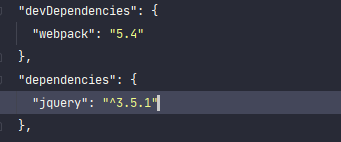
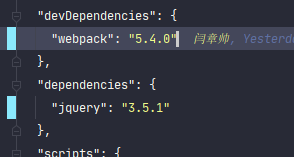
'd'

diff --git a/code/webpack.config.js b/code/webpack.config.js
@@ -33,6 +33,18 @@ const modules = {
 
   //devtool:false, //'eval'
 
+  module:{
+    rules:[
+      {
+        test:/\.js$/,
+        include:path.join(__dirname,'src'),
+        loader: "babel-loader",
+
+      }
+    ]
+  },
+
+
   optimization: {
     minimize: false,
     minimizer: [
@@ -92,26 +104,6 @@ const modules = {
     ]
   },
 
-  // module:{
-  //   rules:[
-  //     {
-  //       test:/\.css$/,
-  //       include:path.join(__dirname,'src'),
-  //       exclude:path.join(__dirname,'node_modules'),
-  //       ////  字符串形式
-  //       // use:'css-loader',
-  //       //  数组形式，可以设置多个loader
-  //       // use:[
-  //       //   {
-  //       //     loader:'css-loader',
-  //       //     options:{
-  //       //
-  //       //     }
-  //       //   }
-  //       // ]
-  //     }
-  //   ]
-  // }
 
 
   plugins: [
@@ -157,6 +149,7 @@ const modules = {
 
       //  每次打包之后删除匹配的文件
     }),
+
 
     new webpack.DefinePlugin({ "global_a": JSON.stringify("我是一个打包配置的全局变量") }),
   ],

diff --git a/code/src/index.js b/code/src/index.js
@@ -11,7 +11,9 @@
 //   }
 // }
 // a()
+import '@babel/polyfill'
 const lambdaFunc = ()=>{
+  //  es6语法
   const a = '我是箭头函数'
   console.log(a)
 
@@ -19,7 +21,13 @@ const lambdaFunc = ()=>{
   for (const item of arr) {
     console.log(item)
   }
+
+
+  //  es6-API
+  arr.map(s=>console.log(s))
+  console.log(arr.includes(1))
 }
 lambdaFunc()
+
 
 

diff --git a/blogs/从零学脚手架(一)---环境搭建.md b/blogs/从零学脚手架(一)---环境搭建.md
@@ -62,17 +62,19 @@ package.json文件创建完成之后Node其实会将当前package文件所在的
 
 添加依赖包的命令为 <font style="color:#f03d3d">yarn add  [-D]  pack-name</font>/<font style="color:#f03d3d">npm install [-D]  pack-name</font> 其中 -D 表示将包添加到开发环境依赖，默认则添加到生成环境依赖，例如我们添加JQuery和webpack。 其中JQuery为生成环境依赖，而webpack则是开发环境依赖
 
-> yarn  add -D  webpack@5.4
+> yarn add -D  webpack@5.4.0
 >
-> yarn add jquery
+> yarn add jquery@3.5.1
 
 <img src=".//images//image-01-04.png" width="400">
+
+
 
 > :whale2::whale2:
 >
 > 1. webpack@5.4包表示添加的是5.4版本的webpack。webpack截至到目前最新版本为5.10.1 但是新版本某些功能具有一定的问题。
->
-> 2. jquery包有的会安装在<font style="color:#f03d3d">peerDependencies</font>依赖中，这个依赖提供了一个通用包引用的概念，具体请参考[一文搞懂peerDependencies](https://segmentfault.com/a/1190000022435060)
+>2. jquery包有的会安装在<font style="color:#f03d3d">peerDependencies</font>依赖中，这个依赖提供了一个通用包引用的概念，具体请参考[一文搞懂peerDependencies(https://segmentfault.com/a/1190000022435060)
+>    1. 包版本有时具有^、~、*等符号，这些都是匹配最新的版本，具体请参考[NPM依赖包版本号~和^和*的区别](https://blog.csdn.net/p358278505/article/details/78247700)
 
 可以看到添加成功会在<font style="color:#f03d3d">dependencies</font>或<font style="color:#f03d3d">devDependencies</font>添加依赖包，并且在当前模块中可以使用这两个依赖包
 
@@ -119,6 +121,7 @@ package.json中还具有其它属性，例如<font style="color:#f03d3d">browser
 > * [npm 和 yarn 你选哪个？](https://segmentfault.com/a/1190000021335004)
 > * [nvm安装和使用](https://www.cnblogs.com/gaozejie/p/10689742.html)
 > * [npm使用国内镜像的方法](https://www.cnblogs.com/yoyotl/p/7826255.html)
+> * [NPM依赖包版本号~和^和*的区别](https://blog.csdn.net/p358278505/article/details/78247700)
 
 
 
@@ -142,10 +145,9 @@ package.json中还具有其它属性，例如<font style="color:#f03d3d">browser
   "license": "MIT",
   "devDependencies": {
     "webpack": "5.4",
-    "webpack-cli": "^4.2.0"
   },
   "dependencies": {
-    "jquery": "^3.5.1"
+    "jquery": "3.5.1"
   },
   "scripts": {
     "start": "node",

diff --git a/blogs/从零学脚手架(四)---babel.md b/blogs/从零学脚手架(四)---babel.md
@@ -30,7 +30,7 @@
 
 <font style="color:#f03d3d">babel</font>其实是一个不弱于<font style="color:#f03d3d">webpack</font>的东西，看起来<font style="color:#f03d3d">babel</font>没多少东西，只是将**ES6**转为**ES5**语法罢了，但是这里面的门门道道就多了。
 
-**ES6**的新语法，新特性，新API
+**ES6**的新语法，新API
 
 还有使用过或者了解typescript诸君都知道TS虽然是JS的超基，但是还是有些区别的，那么是否需要支持TS的转换呢
 
@@ -72,7 +72,15 @@
 
 
 
+在这里直接学习<font style="color:#f03d3d">webpack</font>中使用<font style="color:#f03d3d">babel</font>，刚才介绍，<font style="color:#f03d3d">babel</font>是一个独立的东西，与与<font style="color:#f03d3d">webpack</font>一样，那么怎么将<font style="color:#f03d3d">babel</font>融入到<font style="color:#f03d3d">webpack</font>使用呢？在软件设计中有一种说法：解决耦合的问题就是再拆一层。其实这里跟这种说法有些雷同。只是这是将两个非耦合的连接起来，而连接起来的办法就是**适配器**，做一个<font style="color:#f03d3d">babel</font>适配器以便可以在<font style="color:#f03d3d">webpack</font>中使用。有后端经验的诸君会知道这是一种设计模式--**适配器模式**。没有后端经验的诸君可以参考电源适配器，就跟那个类似
 
+<font style="color:#f03d3d">babel</font>就提供了这么一种**适配器**：<font style="color:#f03d3d">babel-loader</font>，这是一个***loader***，在前面说过***loader***是将**非JS模块**转换为**JS模块**的转换器。<font style="color:#f03d3d">babel</font>虽然不是将非**JS模块**转换为**JS模块**，但也是将JS从**ES6**转换为**ES5**，也勉强可以解释得通。
+
+在<font style="color:#f03d3d">babel-loader</font>会调用<font style="color:#f03d3d">@babel/core</font>中的API，真正执行的是<font style="color:#f03d3d">@babel/core</font>引擎。
+
+现在知道的在<font style="color:#f03d3d">webpack</font>中使用<font style="color:#f03d3d">babel</font>具有两个包，先来将这两个包引用
+
+> yarn add -D babel-loader@8.2.2 @babel/core@7.12.10
 
 
 

diff --git a/blogs/从零学脚手架(二)---初始webpack.md b/blogs/从零学脚手架(二)---初始webpack.md
@@ -50,13 +50,15 @@ webpack是一个优秀的***JavaScript应用程序***的静态模块打包器。
 
 
 
-> yarn add -D  webpack-cli     // 安装到<font style="color:#f03d3d">devDependencies</font>依赖。
+> yarn add -D  webpack-cli@4.2.0     // 安装到<font style="color:#f03d3d">devDependencies</font>依赖。
 
 
 
 然后在package文件中的***scripts***属性中加入一个<font style="color:#f03d3d">build：webpack</font>指令
 
 <img src=".//images//image-02-02.png" width="400">
+
+
 
 
 
@@ -200,7 +202,7 @@ webpack中构建这个HTML页面则交给了一个***plugin***来完成，这个
 
 
 
->  yarn add -D html-webpack-plugin      打包时使用的依赖包
+>  yarn add -D  html-webpack-plugin@4.5.0      
 
 
 
@@ -280,7 +282,7 @@ plugins: [
 
 这个问题在demo中还能忍受，但是在真正项目中那么多文件，多打几次包绝对是一场可怕的噩梦，所以肯定要在每次打包时都清空输出目录，在webpack中由一个**plugin**就是提供这个需求，这就是<font style="color:#f03d3d">clean-webpack-plugin</font>
 
-> yarn add -D clean-webpack-plugin
+> yarn add -D clean-webpack-plugin@3.0.0
 
 
 
@@ -374,13 +376,13 @@ const { CleanWebpackPlugin } = require('clean-webpack-plugin')
   "author": "mowenjinzhao<yanzhangshuai@126.com>",
   "license": "MIT",
   "devDependencies": {
-    "clean-webpack-plugin": "^3.0.0",
-    "html-webpack-plugin": "^4.5.0",
+    "clean-webpack-plugin": "3.0.0",
+    "html-webpack-plugin": "4.5.0",
     "webpack": "5.4",
-    "webpack-cli": "^4.2.0"
+    "webpack-cli": "4.2.0"
   },
   "dependencies": {
-    "jquery": "^3.5.1"
+    "jquery": "3.5.1"
   },
   "scripts": {
     "start": "node",

diff --git a/blogs/从零学脚手架(三)---webpack详解.md b/blogs/从零学脚手架(三)---webpack详解.md
@@ -254,7 +254,7 @@ const TerserPlugin = require('terser-webpack-plugin');
 
 
 
-> yarn add -D terser-webpack-plugin
+> yarn add -D terser-webpack-plugin@5.0.3
 
 
 
@@ -646,14 +646,14 @@ const TerserPlugin = require('terser-webpack-plugin');
   "author": "mowenjinzhao<yanzhangshuai@126.com>",
   "license": "MIT",
   "devDependencies": {
-    "clean-webpack-plugin": "^3.0.0",
-    "html-webpack-plugin": "^4.5.0",
-    "terser-webpack-plugin": "^5.0.3",
+    "clean-webpack-plugin": "3.0.0",
+    "html-webpack-plugin": "4.5.0",
+    "terser-webpack-plugin": "5.0.3",
     "webpack": "5.4",
-    "webpack-cli": "^4.2.0"
+    "webpack-cli": "4.2.0"
   },
   "dependencies": {
-    "jquery": "^3.5.1"
+    "jquery": "3.5.1"
   },
   "scripts": {
     "start": "webpack --mode=development  --config webpack.config.js",

diff --git a/README.md b/README.md
@@ -5,5 +5,9 @@ my-cli是Orcas的一次尝试，因为前端开发中一直是大家面向脚手
 ## 说明
 在文字版中，主要的文字为莫问今朝同学撰写，在文章中可能会出现 🐋:XXXXX (鲸鱼标志,主要是emoji不提供虎鲸)，为另一位作者的建议与碎碎念。
 
+
+
+本系列章节中使用的包基本都是使用截止编写时的最新版本号。
+
 ## 最后
 希望Orcas各位越来越好
